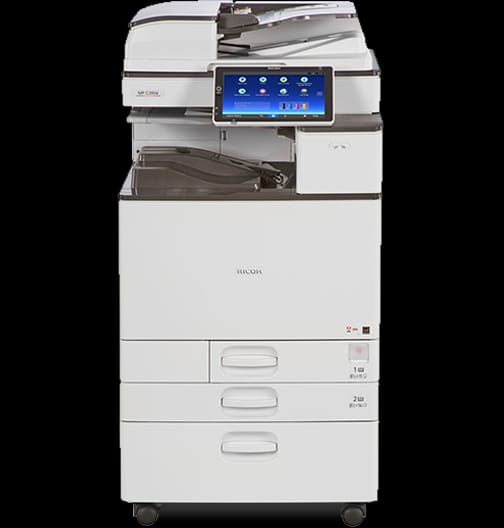
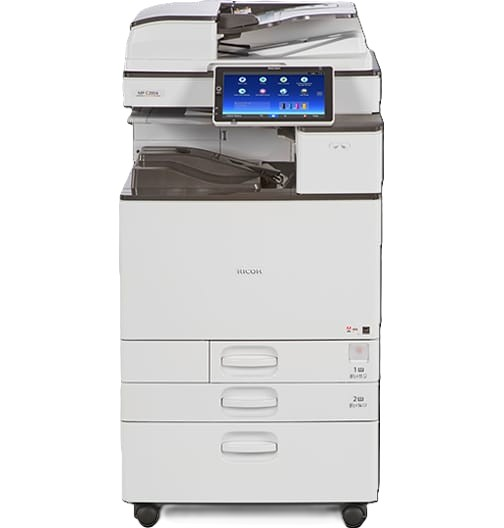
Actualizacion

diff --git a/zonatarapoto/equipos.html b/zonatarapoto/equipos.html
@@ -30,7 +30,7 @@
 
         <!-- RICOH MP 6054 -->
         <div class="col-md-4">
-          <a href="equipos/ricoh-mp6054.html" class="equipo-link">
+          <a href="equipos/RICOH-MP6054.html" class="equipo-link">
             <div class="area-card equipo-card h-100">
               <img src="imgequipos/RICOH-MP6054.jpeg" class="equipo-img">
               <h5>Ricoh MP 6054</h5>
@@ -72,16 +72,6 @@
           </a>
         </div>
 
-        <!-- CANON IR 408 -->
-        <div class="col-md-4">
-          <a href="equipos/canon-ir408.html" class="equipo-link">
-            <div class="area-card equipo-card h-100">
-              <img src="imgequipos/CANON-IR408.jpeg" class="equipo-img">
-              <h5>Canon IR 408</h5>
-              <p>Ideal para oficinas administrativas con uso moderado.</p>
-            </div>
-          </a>
-        </div>
 
         <!-- CANON IR 500 -->
         <div class="col-md-4">

diff --git a/zonaiquitos/equipos.html b/zonaiquitos/equipos.html
@@ -32,7 +32,7 @@
         <div class="col-md-4">
           <a href="equipos/RICOH-MP6054.html" class="equipo-link">
             <div class="area-card equipo-card h-100">
-              <img src="imgequipos/RICOH-MP6054.jpeg" class="equipo-img">
+              <img src="imgequipos/RICOH-MP6054.png" class="equipo-img">
               <h5>RICOH MP 6054</h5>
               <p>Ideal para empresas y centros de copiado con alto volumen diario.</p>
             </div>
@@ -54,7 +54,7 @@
         <div class="col-md-4">
           <a href="equipos/RICOH-MP2555.html" class="equipo-link">
             <div class="area-card equipo-card h-100">
-              <img src="imgequipos/RICOH-MP 2555.jpeg" class="equipo-img">
+              <img src="imgequipos/RICOH-MP 2555.png" class="equipo-img">
               <h5>RICOH MP 2555</h5>
               <p>Ideal para oficinas medianas con uso constante y confiable.</p>
             </div>
@@ -175,7 +175,7 @@
         <div class="col-md-4">
           <a href="equipos/CANON-C5535i.html" class="equipo-link">
             <div class="area-card equipo-card h-100">
-              <img src="imgequipos/CANON C5535i.jpeg" class="equipo-img">
+              <img src="imgequipos/CANON C5535i.png" class="equipo-img">
               <h5>CANON C5535i</h5>
               <p>Ideal para centros de impresión y alto volumen a color.</p>
             </div>

diff --git a/zonaiquitos/equipos/CANON-C5535i.html b/zonaiquitos/equipos/CANON-C5535i.html
@@ -27,7 +27,7 @@
 
       <!-- IMAGEN -->
       <div class="col-md-5 text-center mb-4">
-        <img src="../imgequipos/CANON C5535i.jpeg"
+        <img src="../imgequipos/CANON C5535i.png"
              class="img-fluid rounded-4 shadow"
              alt="Canon C5535i">
       </div>

diff --git a/zonaiquitos/equipos/RICOH-MP2555.html b/zonaiquitos/equipos/RICOH-MP2555.html
@@ -27,7 +27,7 @@
 
       <!-- IMAGEN -->
       <div class="col-md-5 text-center mb-4">
-        <img src="../imgequipos/RICOH-MP 2555.jpeg"
+        <img src="../imgequipos/RICOH-MP 2555.png"
              class="img-fluid rounded-4 shadow"
              alt="Canon C256">
       </div>

diff --git a/zonaiquitos/equipos/RICOH-MP6054.html b/zonaiquitos/equipos/RICOH-MP6054.html
@@ -27,7 +27,7 @@
 
       <!-- IMAGEN -->
       <div class="col-md-5 text-center mb-4">
-        <img src="../imgequipos/RICOH-MP6054.jpeg"
+        <img src="../imgequipos/RICOH-MP6054.png"
              class="img-fluid rounded-4 shadow"
              alt="RICOH-MP6054">
       </div>